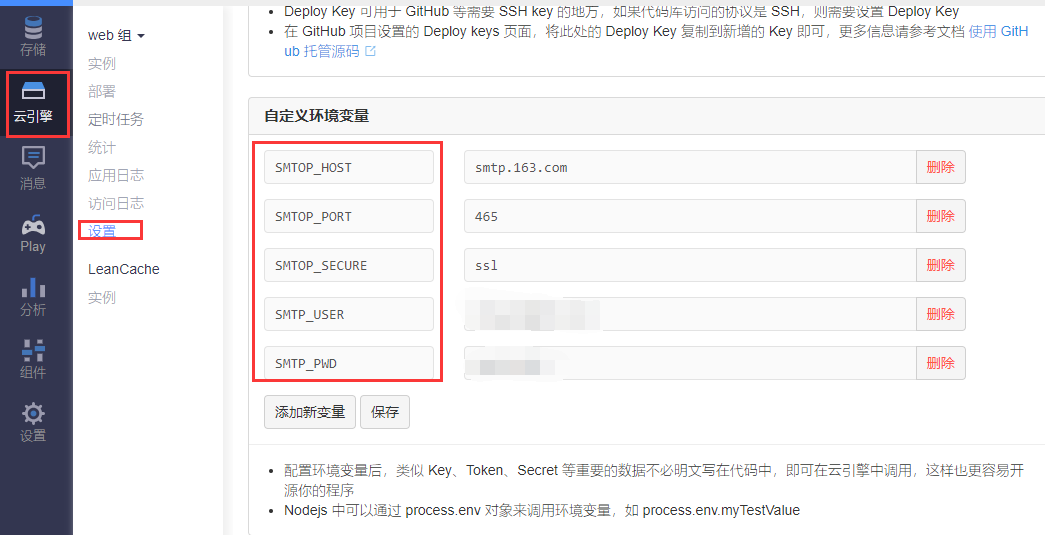
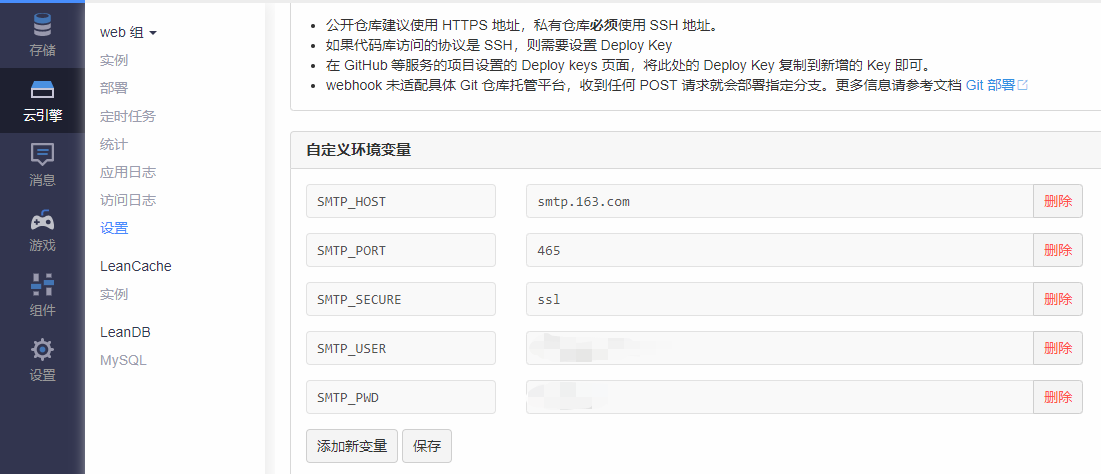
update readme

diff --git a/README.md b/README.md
@@ -9,9 +9,9 @@
 需要以下配置：
 
 ```js
-process.env.SMTOP_HOST, // SMTP host
-process.env.SMTOP_PORT, // smtp 端口
-process.env.SMTOP_SECURE, // smtp SMTOP_SECURE
+process.env.SMTP_HOST, // SMTP host
+process.env.SMTP_PORT, // smtp 端口
+process.env.SMTP_SECURE, // smtp SMTOP_SECURE
 process.env.SMTP_USER, // smtp 授权用户
 process.env.SMTP_PWD // smtp 授权密码
 ```
